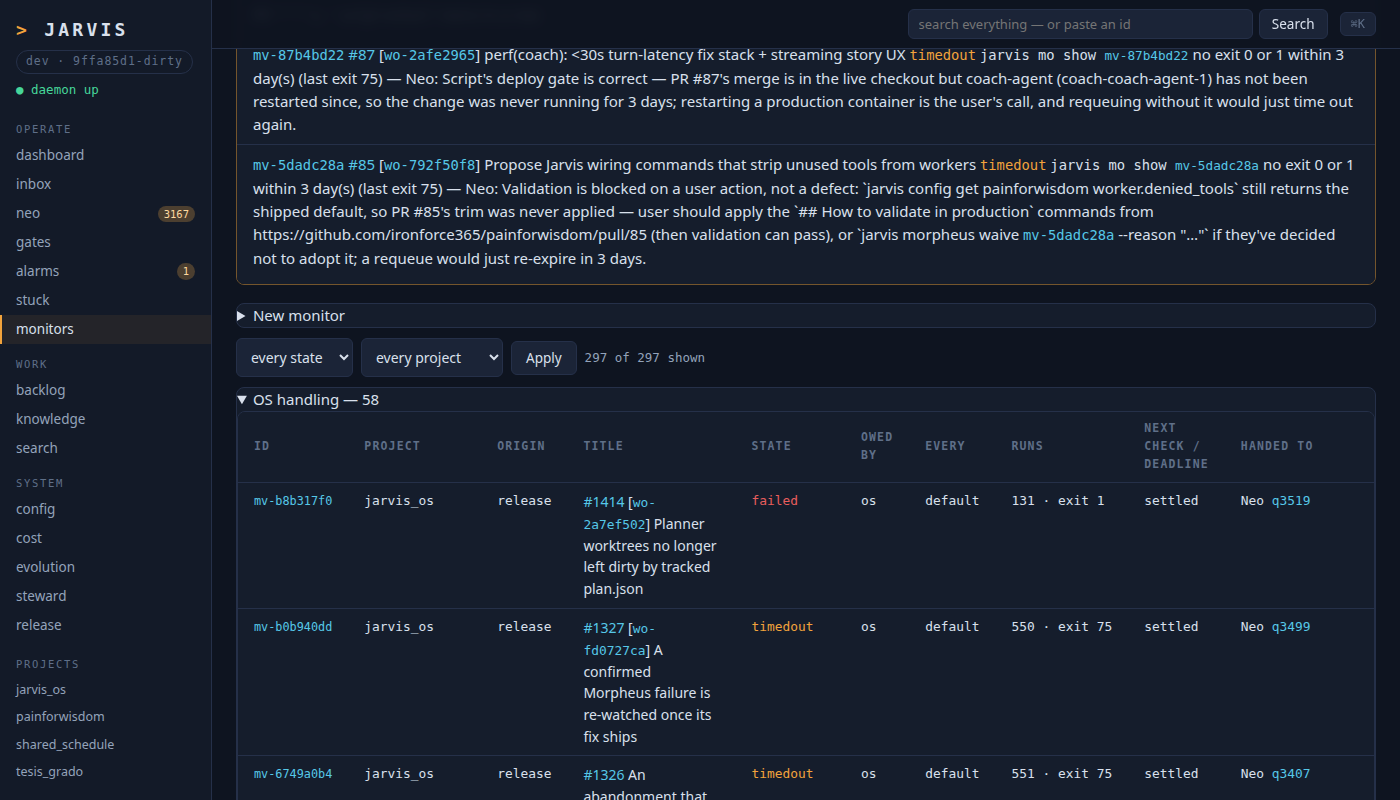
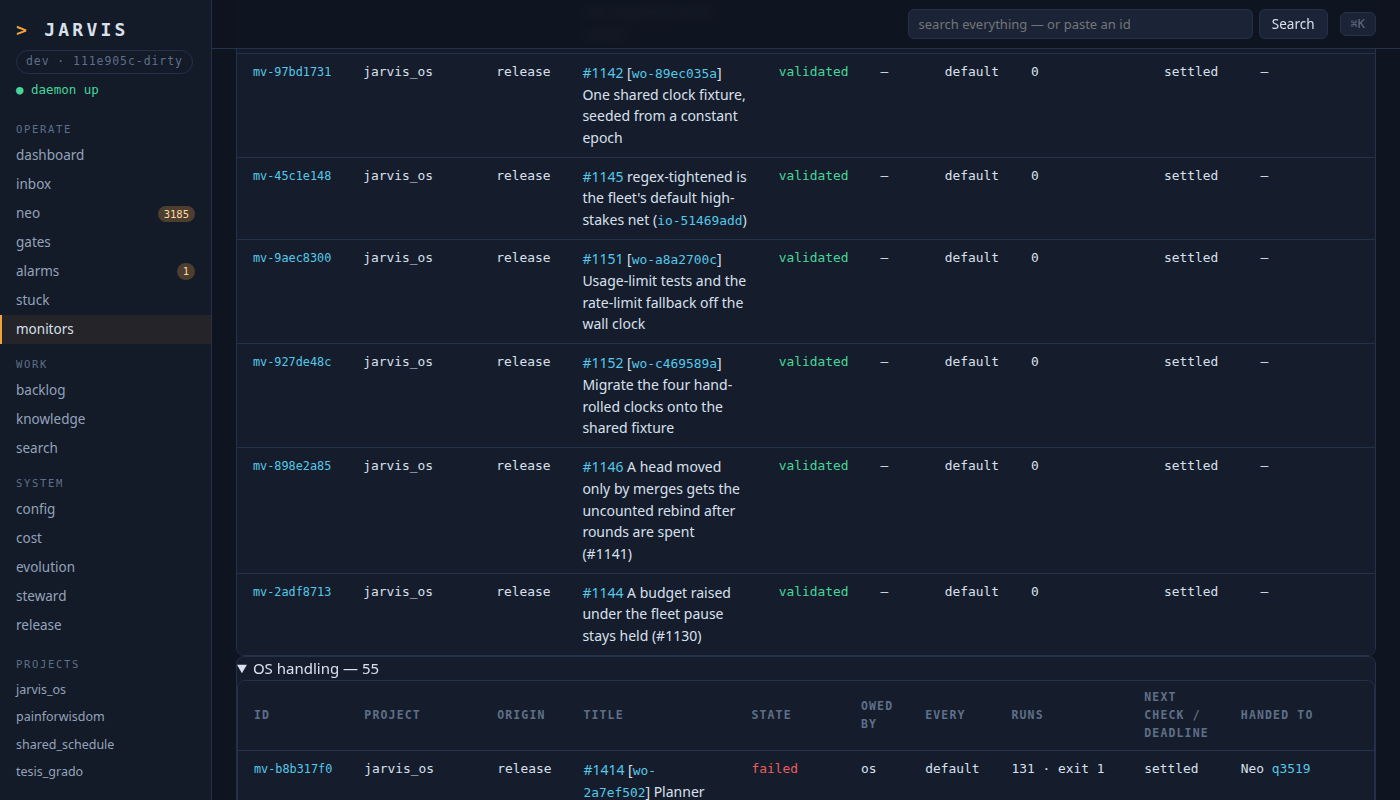
[wo-13fbfacb] OS handling sits under user's rows; no empty table above it
Browser tests expected failed row in main table. Fixture row now user-owed.

Claude-Session: https://claude.ai/code/session_01QUrrkgS69mRuTamdUKvZrz

diff --git a/src/jarvis/ui/templates/morpheus.html b/src/jarvis/ui/templates/morpheus.html
@@ -75,14 +75,16 @@
 </div>
 {% endmacro %}
 
+{% if listed or not handling %}
+{{ monitor_table(listed, 'nothing matches these filters' if filters else 'nothing watched — a release, a merge or "New monitor" fills this') }}
+{% endif %}
+
 {% if handling %}
 <details class="panel"{% if filters %} open{% endif %}>
   <summary>OS handling — {{ handling | length }}</summary>
   {{ monitor_table(handling, "") }}
 </details>
 {% endif %}
-
-{{ monitor_table(listed, 'nothing else here' if handling else 'nothing matches these filters' if filters else 'nothing watched — a release, a merge or "New monitor" fills this') }}
 
 {% call ui.explain("how it works") %}
 <p class="kv">

diff --git a/tests_browser/test_ui_browser.py b/tests_browser/test_ui_browser.py
@@ -1219,7 +1219,8 @@ def _morpheus_rows() -> tuple[str, str]:
                 wo_id="wo-1234abcd", release_tag="jarvis-0.1.0", hints=_LONG, script="exit 1",
                 script_source="agent", state="monitoring", deadline_ts=time.time() + 86400)
             ids.append(item["id"])
-        central.update_morpheus_item(ids[0], state="failed", last_exit=1, checks=2,
+        # neo:0 names no question: a dead hand-off, so the row is the user's (morpheus.owed_by)
+        central.update_morpheus_item(ids[0], state="failed", last_exit=1, checks=2, action="neo:0",
                                      resolution="script exited 1", last_output="boom")
         central.add_morpheus_run(ids[0], exit=1, output="boom", kind="check",
                                  state_after="failed")
